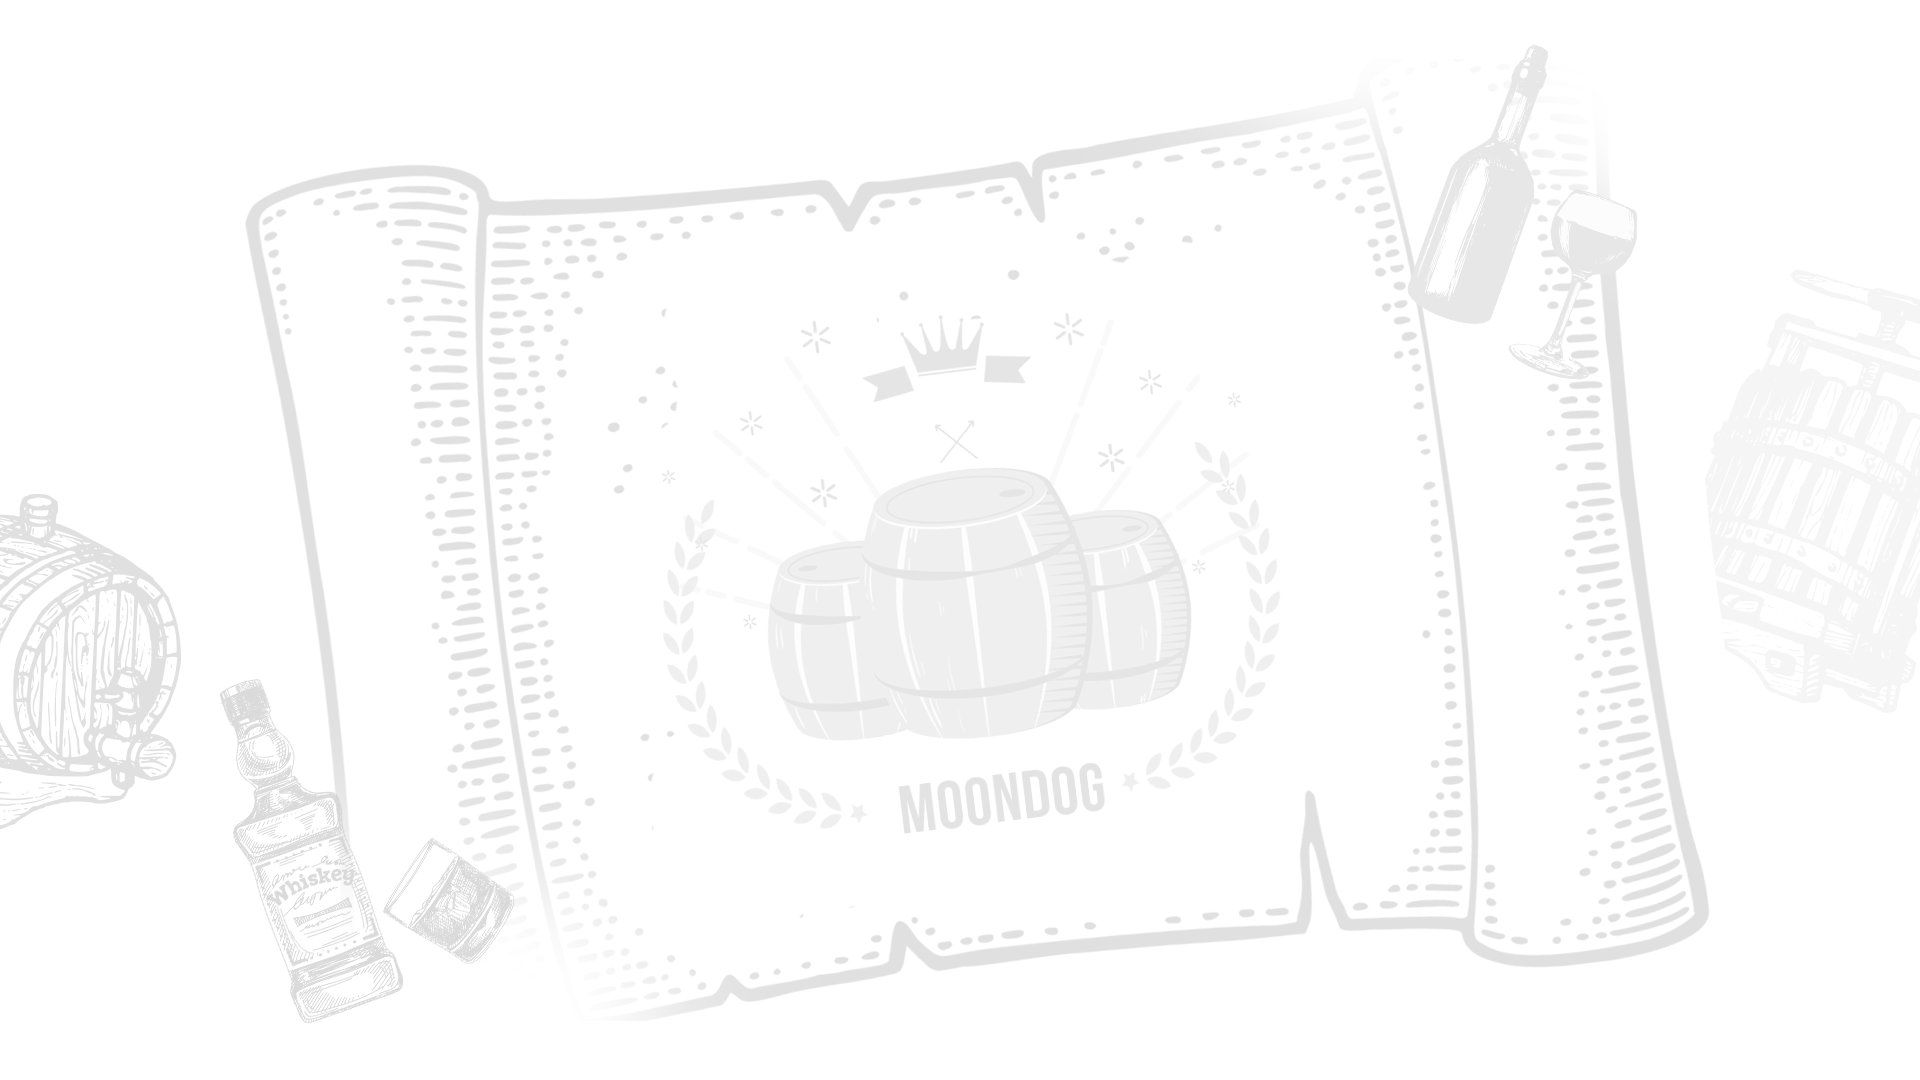
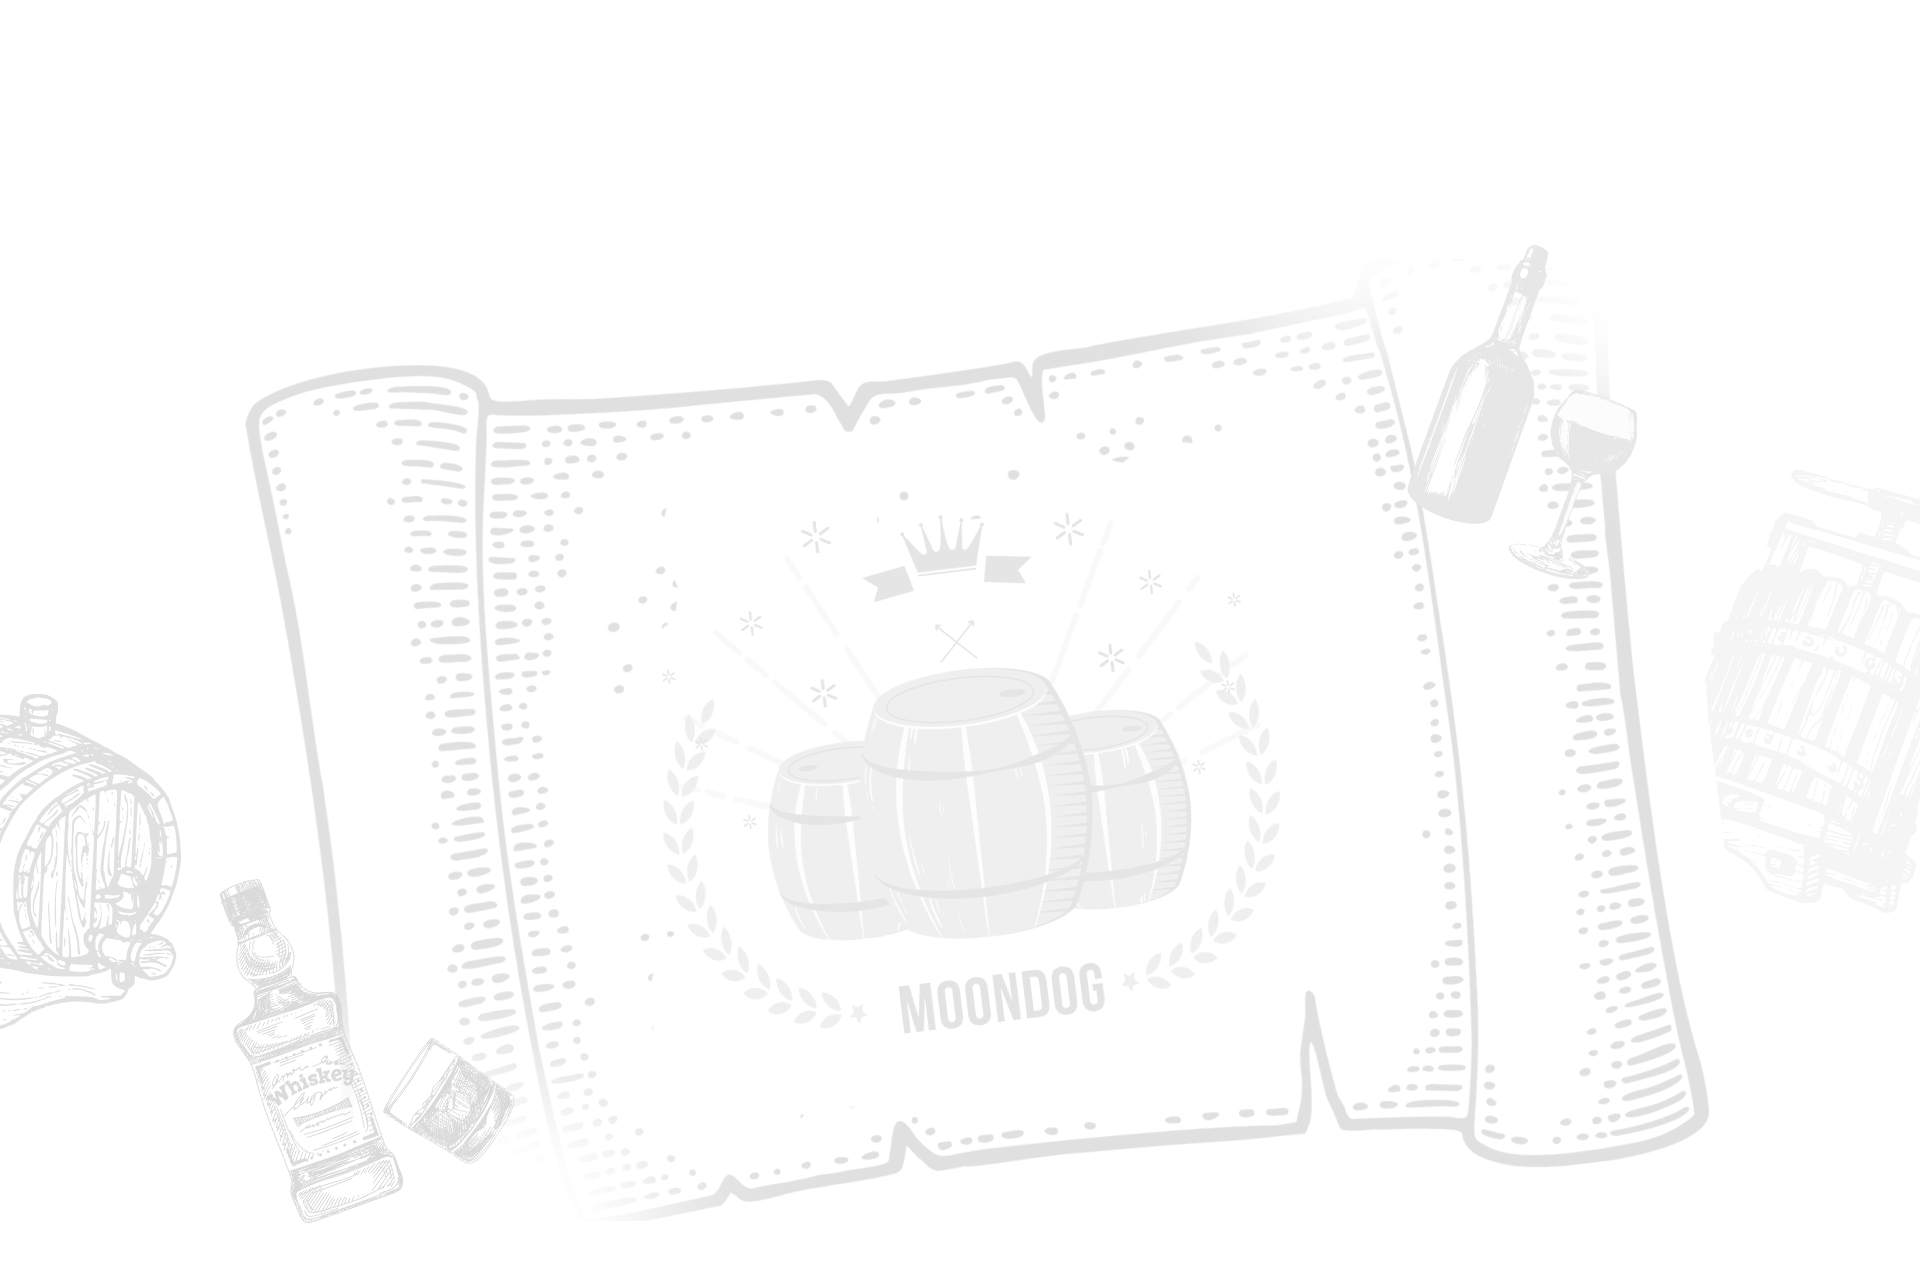
background css update

diff --git a/src/Pages/Game/index.tsx b/src/Pages/Game/index.tsx
@@ -6,7 +6,7 @@ import GameWalletAndScore from './GameWalletAndScore';
 
 const Staking: React.FC = () => {
   return (
-    <div className="h-full w-full overflow-auto bg-game-texture bg-[#E3C094] bg-cover bg-center flex flex-col">
+    <div className="h-full w-full overflow-auto bg-game-texture flex flex-col items-center">
       <Playground />
       <GameTitle />
       <GameArea />

diff --git a/src/globals.css b/src/globals.css
@@ -5,8 +5,8 @@
 @import url('https://fonts.googleapis.com/css2?family=Concert+One&display=swap');
 
 .bg-common-texture {
-  /* background-position: center; */
   background-repeat: no-repeat;
+  background-position: top center;
   background-blend-mode: multiply;
 }
 
